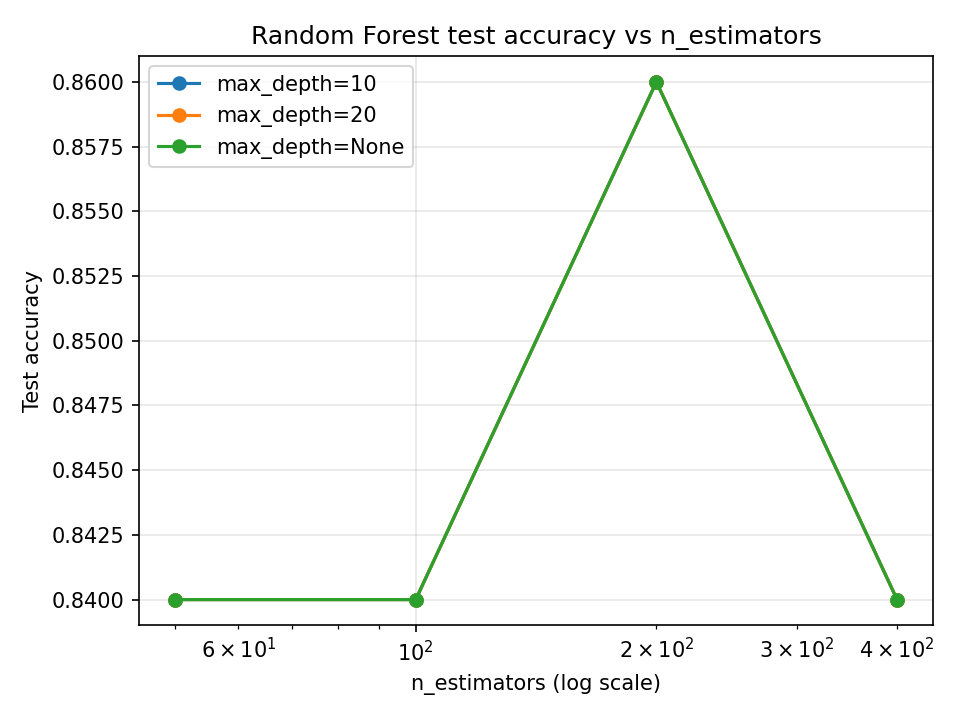
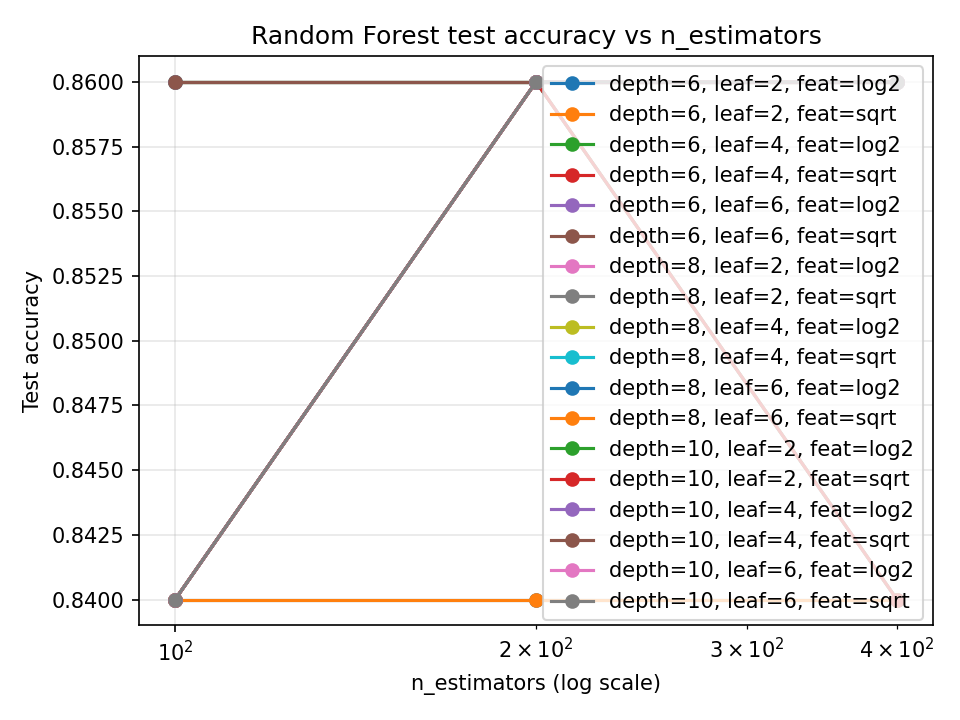
refined randomForest script and generated a notebook

diff --git a/ct4101_assignment.py b/ct4101_assignment.py
@@ -88,17 +88,20 @@ def main() -> None:
     print(classification_report(y_test, best_test_pred))
     print("Confusion matrix:")
     print(confusion_matrix(y_test, best_test_pred))
-
-
     print("\n=== Random Forest: Default Parameters ===")
-    rf_baseline = RandomForestClassifier(random_state=RANDOM_STATE, n_jobs=-1)
+    rf_baseline = RandomForestClassifier(
+        n_estimators=200,
+        max_depth=8,
+        random_state=RANDOM_STATE,
+        n_jobs=-1,
+    )
     rf_baseline.fit(X_train, y_train)
     print(f"Train accuracy: {rf_baseline.score(X_train, y_train):.4f}")
     print(f"Test accuracy : {rf_baseline.score(X_test, y_test):.4f}")
 
     print("\n=== Random Forest: Manual Hyperparameter Tuning ===")
     n_estimators_list = (50, 100, 200, 400)
-    max_depth_list = (None, 10, 20)
+    max_depth_list = (6, 8, 10)
     rf_rows = []
     for depth in max_depth_list:
         for n_estimators in n_estimators_list:
@@ -111,7 +114,7 @@ def main() -> None:
             rf.fit(X_train, y_train)
             rf_rows.append(
                 {
-                    'max_depth': 'None' if depth is None else depth,
+                    'max_depth': depth,
                     'n_estimators': n_estimators,
                     'train_acc': rf.score(X_train, y_train),
                     'test_acc': rf.score(X_test, y_test),
@@ -122,14 +125,10 @@ def main() -> None:
     print(rf_results)
     rf_results.to_csv('rf_results.csv', index=False)
 
-    best_rf = rf_results.loc[rf_results['test_acc'].idxmax()]
-    print("\n[Best Random Forest model]")
-    print(best_rf)
-
     plt.figure()
-    for depth_label, group in rf_results.groupby('max_depth'):
+    for depth, group in rf_results.groupby('max_depth'):
         group = group.sort_values('n_estimators')
-        plt.plot(group['n_estimators'], group['test_acc'], marker='o', label=f"max_depth={depth_label}")
+        plt.plot(group['n_estimators'], group['test_acc'], marker='o', label=f"max_depth={depth}")
     plt.xscale('log')
     plt.xlabel('n_estimators (log scale)')
     plt.ylabel('Test accuracy')
@@ -140,5 +139,5 @@ def main() -> None:
     plt.savefig('rf_test_acc.png', dpi=150)
     plt.close()
 
-if __name__ == '__main__':
-    main()
+    if __name__ == '__main__':
+        main()
